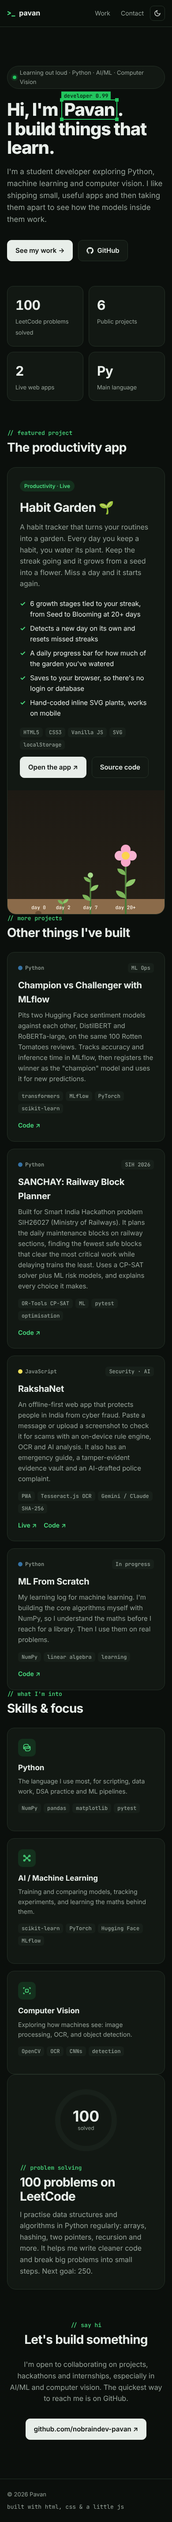
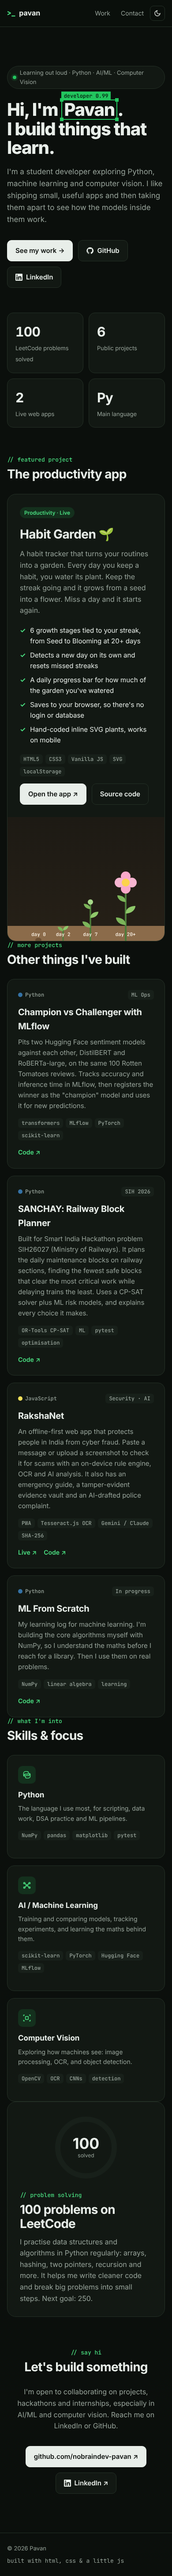
Add LinkedIn links and Vercel config
Claude-Session: https://claude.ai/code/session_018TmX4kprvv4TebMAwNd6Sc

diff --git a/index.html b/index.html
@@ -164,6 +164,10 @@ footer .wrap{display:flex;justify-content:space-between;flex-wrap:wrap;gap:8px}
         <svg width="16" height="16" viewBox="0 0 24 24" fill="currentColor"><path d="M12 .5a11.5 11.5 0 0 0-3.64 22.41c.58.1.79-.25.79-.56v-2c-3.2.7-3.88-1.37-3.88-1.37-.52-1.33-1.28-1.69-1.28-1.69-1.05-.72.08-.7.08-.7 1.16.08 1.77 1.19 1.77 1.19 1.03 1.77 2.7 1.26 3.36.96.1-.75.4-1.26.73-1.55-2.55-.29-5.24-1.28-5.24-5.69 0-1.26.45-2.29 1.19-3.1-.12-.29-.52-1.46.11-3.05 0 0 .97-.31 3.17 1.18a11 11 0 0 1 5.77 0c2.2-1.49 3.17-1.18 3.17-1.18.63 1.59.23 2.76.11 3.05.74.81 1.19 1.84 1.19 3.1 0 4.42-2.7 5.4-5.26 5.68.41.36.78 1.06.78 2.14v3.17c0 .31.21.67.8.56A11.5 11.5 0 0 0 12 .5z"/></svg>
         GitHub
       </a>
+      <a class="btn" href="https://www.linkedin.com/in/pavan-kumar-pundi-168580405" target="_blank" rel="noopener">
+        <svg width="16" height="16" viewBox="0 0 24 24" fill="currentColor"><path d="M20.45 20.45h-3.56v-5.57c0-1.33-.02-3.04-1.85-3.04-1.85 0-2.14 1.45-2.14 2.94v5.67H9.35V9h3.41v1.56h.05c.48-.9 1.64-1.85 3.37-1.85 3.6 0 4.27 2.37 4.27 5.46v6.28zM5.34 7.43a2.06 2.06 0 1 1 0-4.13 2.06 2.06 0 0 1 0 4.13zM7.12 20.45H3.56V9h3.56v11.45zM22.22 0H1.77C.79 0 0 .77 0 1.73v20.54C0 23.23.79 24 1.77 24h20.45c.98 0 1.78-.77 1.78-1.73V1.73C24 .77 23.2 0 22.22 0z"/></svg>
+        LinkedIn
+      </a>
     </div>
 
     <div class="stats">
@@ -298,9 +302,10 @@ footer .wrap{display:flex;justify-content:space-between;flex-wrap:wrap;gap:8px}
   <section id="contact" class="wrap contact reveal">
     <div class="eyebrow">// say hi</div>
     <h2>Let's build something</h2>
-    <p>I'm open to collaborating on projects, hackathons and internships, especially in AI/ML and computer vision. The quickest way to reach me is on GitHub.</p>
+    <p>I'm open to collaborating on projects, hackathons and internships, especially in AI/ML and computer vision. Reach me on LinkedIn or GitHub.</p>
     <div class="cta">
       <a class="btn primary" href="https://github.com/nobraindev-pavan" target="_blank" rel="noopener">github.com/nobraindev-pavan ↗</a>
+      <a class="btn" href="https://www.linkedin.com/in/pavan-kumar-pundi-168580405" target="_blank" rel="noopener"><svg width="16" height="16" viewBox="0 0 24 24" fill="currentColor"><path d="M20.45 20.45h-3.56v-5.57c0-1.33-.02-3.04-1.85-3.04-1.85 0-2.14 1.45-2.14 2.94v5.67H9.35V9h3.41v1.56h.05c.48-.9 1.64-1.85 3.37-1.85 3.6 0 4.27 2.37 4.27 5.46v6.28zM5.34 7.43a2.06 2.06 0 1 1 0-4.13 2.06 2.06 0 0 1 0 4.13zM7.12 20.45H3.56V9h3.56v11.45zM22.22 0H1.77C.79 0 0 .77 0 1.73v20.54C0 23.23.79 24 1.77 24h20.45c.98 0 1.78-.77 1.78-1.73V1.73C24 .77 23.2 0 22.22 0z"/></svg> LinkedIn ↗</a>
     </div>
   </section>
 </main>

diff --git a/README.md b/README.md
@@ -11,4 +11,4 @@ Open `index.html` in a browser.
 ## Deploy
 
 - **GitHub Pages:** go to Settings → Pages, set the source to the `main` branch and the `/ (root)` folder. The site goes live at `https://nobraindev-pavan.github.io/portofolio/`.
-- **Vercel:** import the repo. It needs no configuration.
+- **Vercel:** at vercel.com/new, import `nobraindev-pavan/portofolio`, leave Framework Preset as **Other** with no build command, and click **Deploy**. Every push to `main` redeploys.
